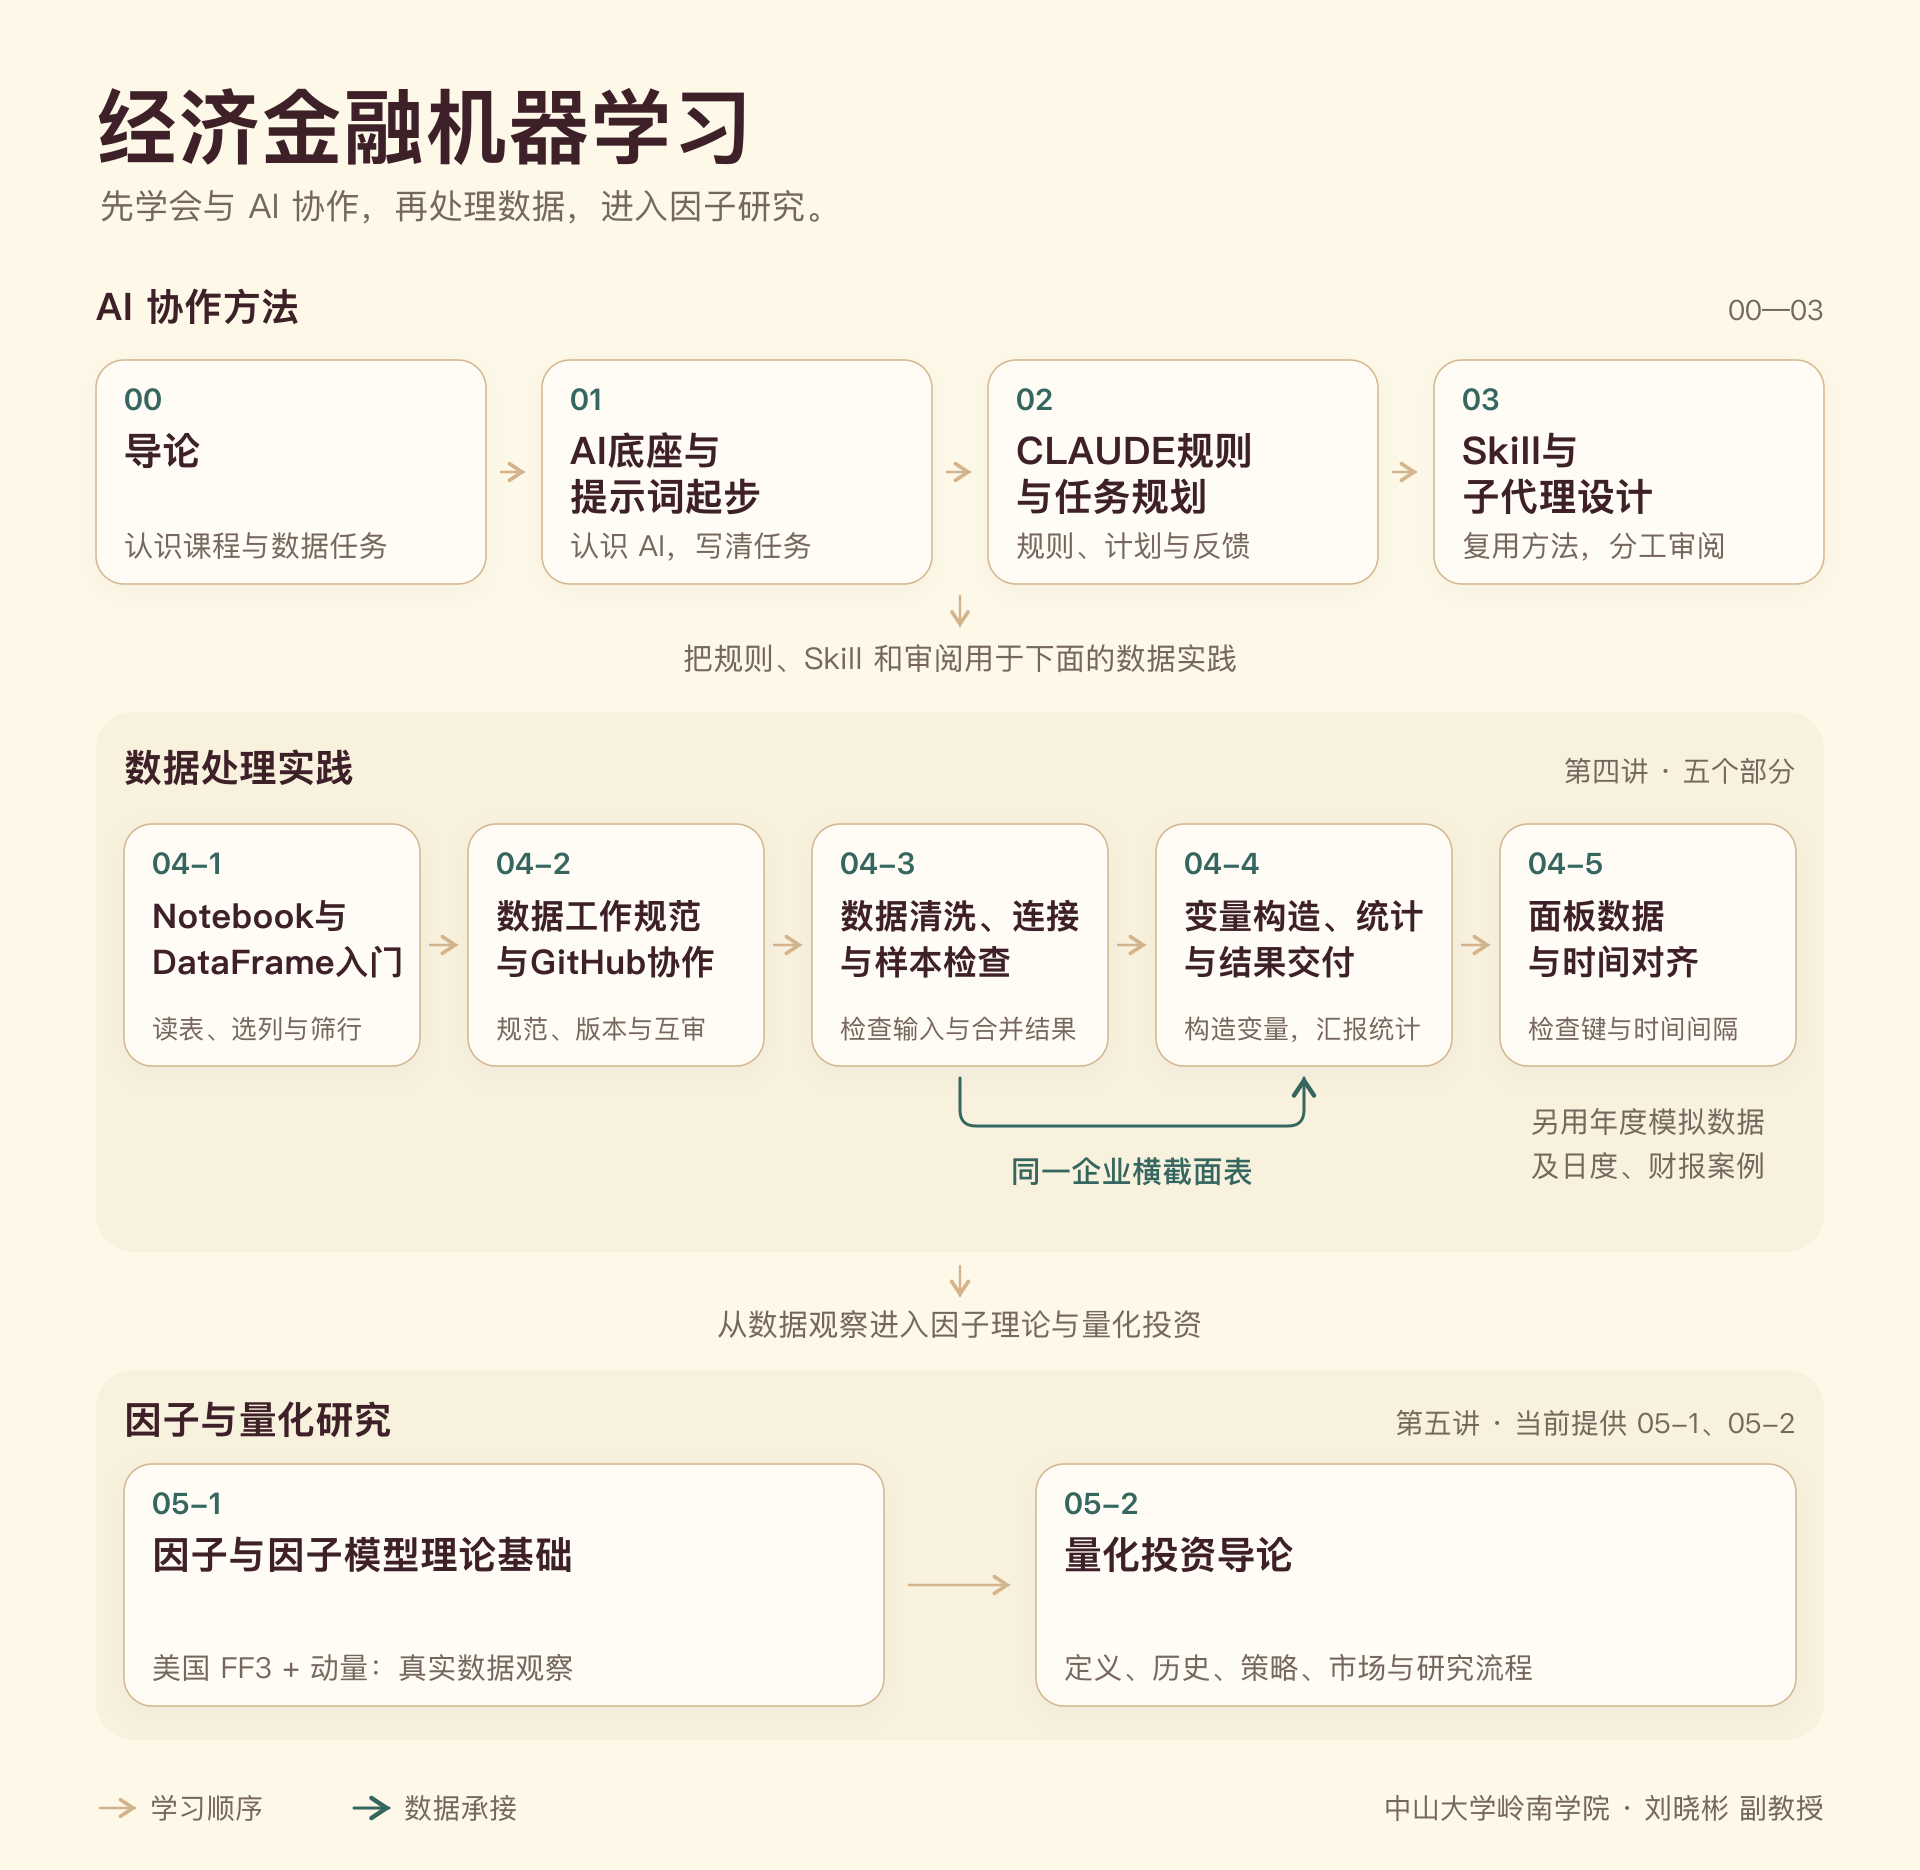
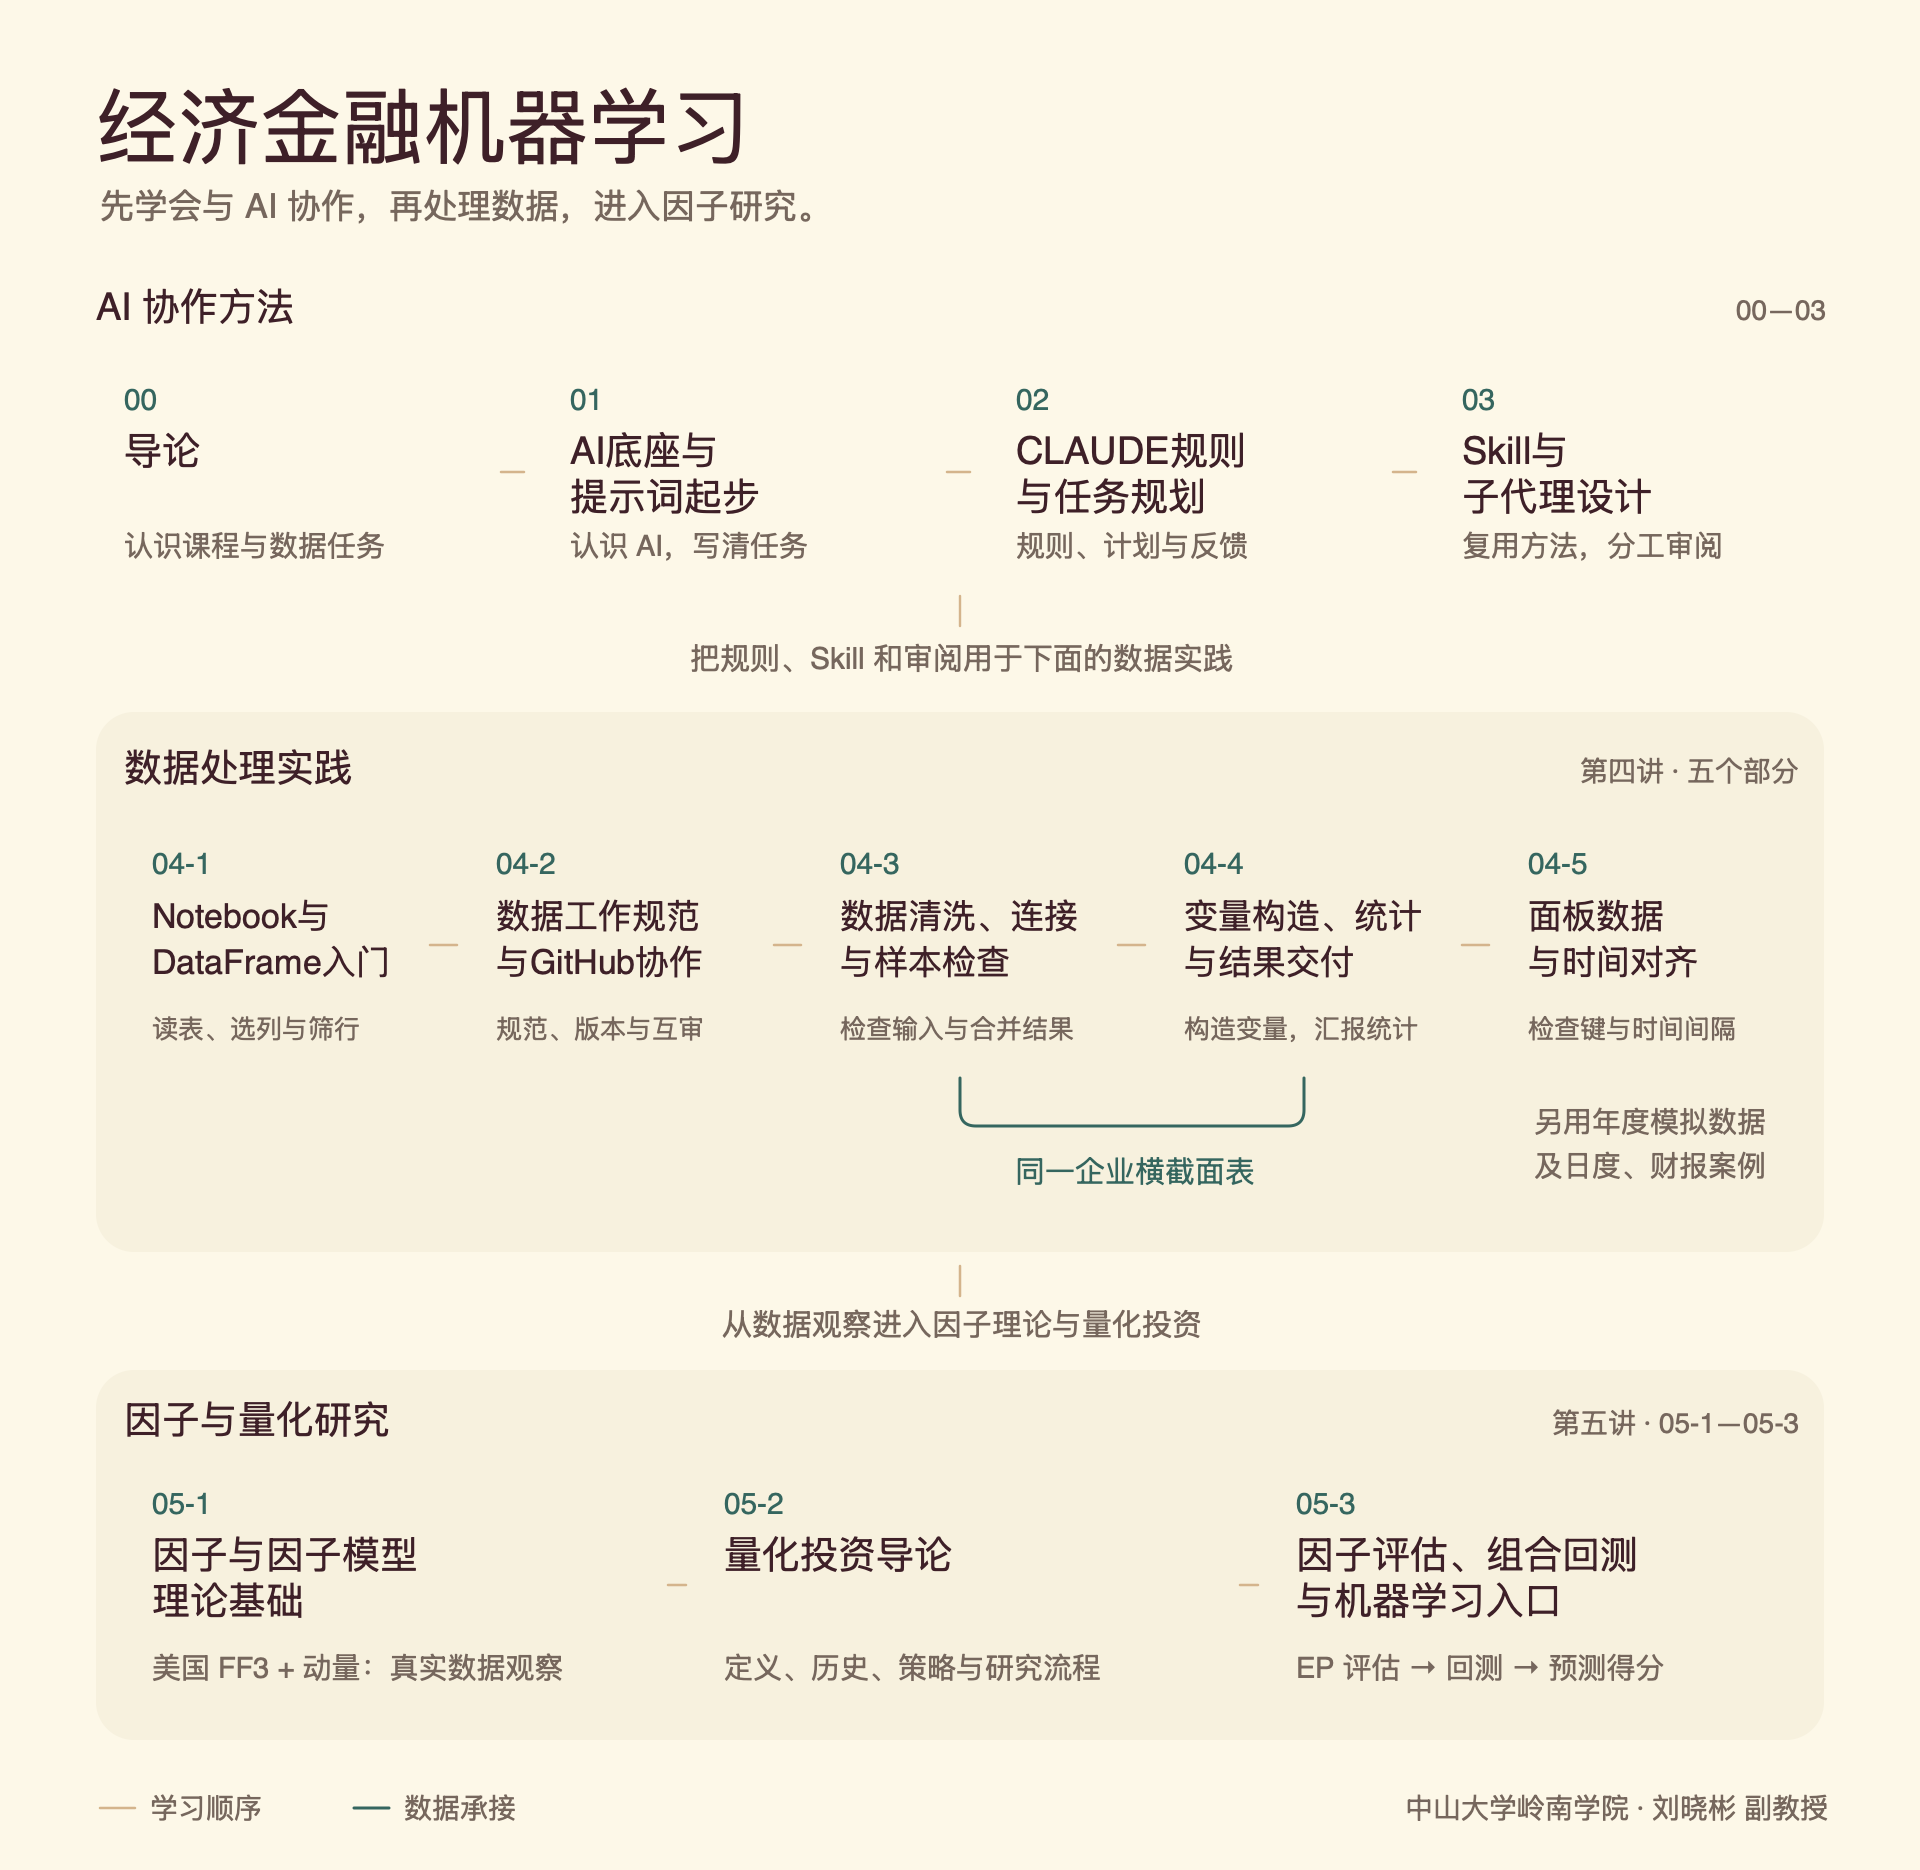
🐛 fix(course): update course map for lecture 05-3

diff --git a/index.html b/index.html
@@ -1,1 +1,1 @@
-<!doctype html><html lang="zh-CN"><head><meta charset="utf-8"><meta name="viewport" content="width=device-width,initial-scale=1"><title>经济金融机器学习 · 课件</title><style>body{margin:0;background:#FDF8E8;color:#3E2028;font:20px/1.8 "PingFang SC","Microsoft YaHei",system-ui,sans-serif}main{max-width:1000px;margin:auto;padding:36px 28px 64px}h1{font:38px/1.35 "Songti SC",serif}h2{font-size:27px;margin-top:32px}a{color:#35665F;text-underline-offset:4px;overflow-wrap:anywhere}section,footer{border-top:1px solid #D4B48C;padding:18px 0}li{margin:12px 0}small{color:#76675D}figure{margin:24px 0}figure img{display:block;width:100%;height:auto}figcaption{font-size:16px;color:#76675D}@media(max-width:600px){h1{font-size:30px}main{padding:24px 20px 40px}}</style></head><body><main><h1>经济金融机器学习</h1><p>中山大学岭南学院 · 刘晓彬 副教授</p><figure><a href="assets/course-map.png"><img src="assets/course-map.png" alt="课程关系图：00—03 AI协作方法，04-1—04-5数据处理实践，05-1因子理论与05-2量化投资导论"></a><figcaption>金色箭头表示学习顺序，青绿连线表示数据承接。点击图片查看大图。</figcaption></figure><section><h2><a href="00-导论.html">00-导论</a></h2><small>62 页</small></section><section><h2><a href="01-AI底座与提示词起步.html">01-AI底座与提示词起步</a></h2><small>102 页</small></section><section><h2><a href="02-CLAUDE规则与任务规划.html">02-CLAUDE规则与任务规划</a></h2><small>68 页</small></section><section><h2><a href="03-Skill与子代理设计.html">03-Skill与子代理设计</a></h2><small>47 页</small></section><section><h2><a href="04-GitHub与Python数据处理-1-Notebook与DataFrame入门.html">04-GitHub与Python数据处理-1-Notebook与DataFrame入门</a></h2><small>35 页</small></section><section><h2><a href="04-GitHub与Python数据处理-2-数据工作规范与GitHub协作.html">04-GitHub与Python数据处理-2-数据工作规范与GitHub协作</a></h2><small>38 页</small></section><section><h2><a href="04-GitHub与Python数据处理-3-数据清洗连接与样本检查.html">04-GitHub与Python数据处理-3-数据清洗连接与样本检查</a></h2><small>43 页</small></section><section><h2><a href="04-GitHub与Python数据处理-4-变量构造统计与结果交付.html">04-GitHub与Python数据处理-4-变量构造统计与结果交付</a></h2><small>36 页</small></section><section><h2><a href="04-GitHub与Python数据处理-5-面板数据与时间对齐.html">04-GitHub与Python数据处理-5-面板数据与时间对齐</a></h2><small>33 页</small></section><section><h2><a href="05-1-因子与因子模型理论基础.html">05-1-因子与因子模型理论基础</a></h2><small>96 页</small></section><section><h2><a href="05-2-中国量化历史与研究流程.html">05-2-量化投资导论</a></h2><small>103 页</small></section><section><h2><a href="05-3-因子评估组合回测与机器学习入口.html">05-3-因子评估、组合回测与机器学习入口</a></h2><small>156 页</small><p>以EP为主案例，从因子评估、组合回测衔接机器学习预测得分；配套材料由教师另行提供。</p></section><section id="materials"><h2>配套材料</h2><div id="materials-04-3"><h3>04-3 数据清洗、连接与样本检查</h3><p><a href="04-GitHub与Python数据处理-3-数据清洗连接与样本检查-参考答案版.zip" download>下载学生材料 ZIP（含参考答案）</a></p><p>解压后打开“04-3-参考答案”文件夹，按 README 选择课程内核，运行“04-3-清洗与连接.ipynb”。数据字典、处理原则、课堂任务和交付说明均在包内；Notebook末尾附参考解答。</p></div><div id="materials-04-4"><h3>04-4 变量构造、统计与结果交付</h3><p><a href="04-GitHub与Python数据处理-4-变量构造统计与结果交付-参考答案版.zip" download>下载精简材料 ZIP（含参考答案）</a> · <a href="04-4-统计交互网页.html">打开统计交互网页</a></p><p>解压后从 README 开始，顺序运行 Notebook；统计网页可离线使用。</p></div><div id="materials-04-5"><h3>04-5 面板数据与时间对齐</h3><p><a href="04-GitHub与Python数据处理-5-面板数据与时间对齐-参考答案版.zip" download>下载配套包（含参考答案）</a> · <a href="04-5-面板键与年度匹配演示.html">面板交互网页</a></p><p>解压后按README运行Notebook；网页可离线打开。</p></div><div id="materials-05-1"><h3>05-1 因子与因子模型理论基础</h3><p><a href="05-1-因子与因子模型理论基础-学生材料.zip" download>下载四因子观察学生材料 ZIP</a></p><p>解压后打开“05-1-课堂材料”，按 README 运行“05-1-四因子观察.ipynb”。包内提供美国 FF3 与动量月度数据（1927-01—2026-08）、官方原始文件、数据字典和合并脚本，用于观察时间轨迹、分布与相关性。</p></div><div id="materials-05-2"><h3>05-2 量化投资导论</h3><p><a href="05-2-量化投资导论-配套材料-不含数据.zip" download>下载配套材料 ZIP（不含数据，约1.18 MB）</a></p><p>解压后打开“05-2-量化投资导论”，按 README 将教师另行提供的六张精简数据表（约54.7 MB）放入 data/offline/，再运行 notebooks/ch01_market_overview.ipynb。包内保留原Notebook、工具代码、图表与数据说明。</p></div><p>05-2《量化投资导论》共 103 页，介绍量化投资的定义、发展历史、策略、A 股市场环境、行业版图、研究流程及案例，配套材料见上方下载入口。署名：刘晓彬（中山大学岭南学院）、曾涛（浙江大学）。其他部分的学生材料由教师另行提供。</p></section><footer>© 2026 刘晓彬 · <a href="许可协议.html">中文许可说明</a> · <a href="LICENSE">LICENSE 全文</a></footer></main></body></html>
+<!doctype html><html lang="zh-CN"><head><meta charset="utf-8"><meta name="viewport" content="width=device-width,initial-scale=1"><title>经济金融机器学习 · 课件</title><style>body{margin:0;background:#FDF8E8;color:#3E2028;font:20px/1.8 "PingFang SC","Microsoft YaHei",system-ui,sans-serif}main{max-width:1000px;margin:auto;padding:36px 28px 64px}h1{font:38px/1.35 "Songti SC",serif}h2{font-size:27px;margin-top:32px}a{color:#35665F;text-underline-offset:4px;overflow-wrap:anywhere}section,footer{border-top:1px solid #D4B48C;padding:18px 0}li{margin:12px 0}small{color:#76675D}figure{margin:24px 0}figure img{display:block;width:100%;height:auto}figcaption{font-size:16px;color:#76675D}@media(max-width:600px){h1{font-size:30px}main{padding:24px 20px 40px}}</style></head><body><main><h1>经济金融机器学习</h1><p>中山大学岭南学院 · 刘晓彬 副教授</p><figure><a href="assets/course-map.png"><img src="assets/course-map.png" alt="课程关系图：00—03 AI协作方法，04-1—04-5数据处理实践，05-1因子理论、05-2量化投资导论与05-3因子评估回测"></a><figcaption>金色箭头表示学习顺序，青绿连线表示数据承接。点击图片查看大图。</figcaption></figure><section><h2><a href="00-导论.html">00-导论</a></h2><small>62 页</small></section><section><h2><a href="01-AI底座与提示词起步.html">01-AI底座与提示词起步</a></h2><small>102 页</small></section><section><h2><a href="02-CLAUDE规则与任务规划.html">02-CLAUDE规则与任务规划</a></h2><small>68 页</small></section><section><h2><a href="03-Skill与子代理设计.html">03-Skill与子代理设计</a></h2><small>47 页</small></section><section><h2><a href="04-GitHub与Python数据处理-1-Notebook与DataFrame入门.html">04-GitHub与Python数据处理-1-Notebook与DataFrame入门</a></h2><small>35 页</small></section><section><h2><a href="04-GitHub与Python数据处理-2-数据工作规范与GitHub协作.html">04-GitHub与Python数据处理-2-数据工作规范与GitHub协作</a></h2><small>38 页</small></section><section><h2><a href="04-GitHub与Python数据处理-3-数据清洗连接与样本检查.html">04-GitHub与Python数据处理-3-数据清洗连接与样本检查</a></h2><small>43 页</small></section><section><h2><a href="04-GitHub与Python数据处理-4-变量构造统计与结果交付.html">04-GitHub与Python数据处理-4-变量构造统计与结果交付</a></h2><small>36 页</small></section><section><h2><a href="04-GitHub与Python数据处理-5-面板数据与时间对齐.html">04-GitHub与Python数据处理-5-面板数据与时间对齐</a></h2><small>33 页</small></section><section><h2><a href="05-1-因子与因子模型理论基础.html">05-1-因子与因子模型理论基础</a></h2><small>96 页</small></section><section><h2><a href="05-2-中国量化历史与研究流程.html">05-2-量化投资导论</a></h2><small>103 页</small></section><section><h2><a href="05-3-因子评估组合回测与机器学习入口.html">05-3-因子评估、组合回测与机器学习入口</a></h2><small>156 页</small><p>以EP为主案例，从因子评估、组合回测衔接机器学习预测得分；配套材料由教师另行提供。</p></section><section id="materials"><h2>配套材料</h2><div id="materials-04-3"><h3>04-3 数据清洗、连接与样本检查</h3><p><a href="04-GitHub与Python数据处理-3-数据清洗连接与样本检查-参考答案版.zip" download>下载学生材料 ZIP（含参考答案）</a></p><p>解压后打开“04-3-参考答案”文件夹，按 README 选择课程内核，运行“04-3-清洗与连接.ipynb”。数据字典、处理原则、课堂任务和交付说明均在包内；Notebook末尾附参考解答。</p></div><div id="materials-04-4"><h3>04-4 变量构造、统计与结果交付</h3><p><a href="04-GitHub与Python数据处理-4-变量构造统计与结果交付-参考答案版.zip" download>下载精简材料 ZIP（含参考答案）</a> · <a href="04-4-统计交互网页.html">打开统计交互网页</a></p><p>解压后从 README 开始，顺序运行 Notebook；统计网页可离线使用。</p></div><div id="materials-04-5"><h3>04-5 面板数据与时间对齐</h3><p><a href="04-GitHub与Python数据处理-5-面板数据与时间对齐-参考答案版.zip" download>下载配套包（含参考答案）</a> · <a href="04-5-面板键与年度匹配演示.html">面板交互网页</a></p><p>解压后按README运行Notebook；网页可离线打开。</p></div><div id="materials-05-1"><h3>05-1 因子与因子模型理论基础</h3><p><a href="05-1-因子与因子模型理论基础-学生材料.zip" download>下载四因子观察学生材料 ZIP</a></p><p>解压后打开“05-1-课堂材料”，按 README 运行“05-1-四因子观察.ipynb”。包内提供美国 FF3 与动量月度数据（1927-01—2026-08）、官方原始文件、数据字典和合并脚本，用于观察时间轨迹、分布与相关性。</p></div><div id="materials-05-2"><h3>05-2 量化投资导论</h3><p><a href="05-2-量化投资导论-配套材料-不含数据.zip" download>下载配套材料 ZIP（不含数据，约1.18 MB）</a></p><p>解压后打开“05-2-量化投资导论”，按 README 将教师另行提供的六张精简数据表（约54.7 MB）放入 data/offline/，再运行 notebooks/ch01_market_overview.ipynb。包内保留原Notebook、工具代码、图表与数据说明。</p></div><p>05-2《量化投资导论》共 103 页，介绍量化投资的定义、发展历史、策略、A 股市场环境、行业版图、研究流程及案例，配套材料见上方下载入口。署名：刘晓彬（中山大学岭南学院）、曾涛（浙江大学）。其他部分的学生材料由教师另行提供。</p></section><footer>© 2026 刘晓彬 · <a href="许可协议.html">中文许可说明</a> · <a href="LICENSE">LICENSE 全文</a></footer></main></body></html>

diff --git a/README.md b/README.md
@@ -4,7 +4,7 @@
 
 本仓库公开主课程 00、01、02、03、04-1、04-2、04-3、04-4、04-5、05-1、05-2、05-3 的 HTML 课件。
 
-[![课件关系图：AI 协作方法、数据处理实践、因子理论与量化投资导论；金色箭头表示学习顺序，青绿连线表示数据承接](assets/course-map.png)](assets/course-map.png)
+[![课件关系图：AI 协作方法、数据处理实践、因子理论、量化投资导论与因子评估回测；金色箭头表示学习顺序，青绿连线表示数据承接](assets/course-map.png)](assets/course-map.png)
 
 [查看矢量关系图](assets/course-map.svg)
 
